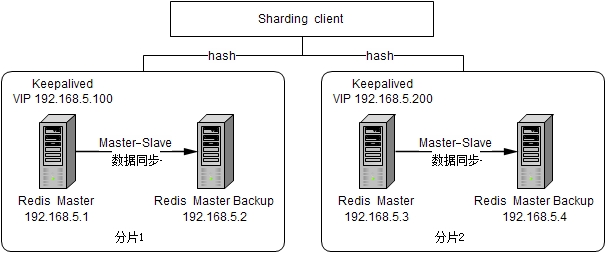
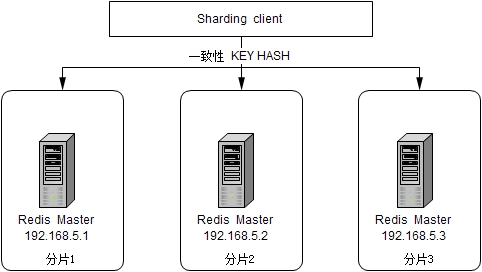
init

Changed region(s): [[0.0, 0.0553, 1.0, 1.0], [0.2178, 0.0, 0.778, 0.0277]]

diff --git a/service/disarch-service/src/main/java/com/disarch/service/cache/CacheService.java b/service/disarch-service/src/main/java/com/disarch/service/cache/CacheService.java
@@ -209,7 +209,7 @@ public class CacheService implements ICacheService {
                 try {
                     client.eval(REMOVE_BY_VALUE_SCRIPT, Collections.singletonList(key), Collections.singletonList(value));
                 } catch (Exception e) {
-                    LOGGER.error("setNotExistsWithExpire failed,db:{},msg:{}", client.getDB(), e.getMessage());
+                    LOGGER.error("removeByValueCluster failed,db:{},msg:{}", client.getDB(), e.getMessage());
                 }
             }
             return true;

diff --git a/service/disarch-service/src/main/java/com/disarch/service/uuid/UUIDService.java b/service/disarch-service/src/main/java/com/disarch/service/uuid/UUIDService.java
@@ -1,8 +1,14 @@
 package com.disarch.service.uuid;
 
 import com.disarch.entity.UUIDPeriodType;
+import com.disarch.service.cache.ICacheService;
+
+import javax.annotation.Resource;
 
 public class UUIDService implements IUUIDService {
+    @Resource
+    private ICacheService cacheService;
+
     @Override
     public String getUUIDOfString(String name, UUIDPeriodType uUIDPeriodType) {
         return null;

diff --git a/README.md b/README.md
@@ -7,7 +7,13 @@
 
 ## Redis集群
 ![sharding cluster](doc/redis_sharding_cluster.jpg)  
-通过客户端分片方式实现负载均衡，同时通过VIP+Master-Slave Sync方式实现服务端高可用。
+负载均衡统一通过客户端分片机制的ShardedJedisPool实现。  
+高可用则针对不同的场景采用不同的方式实现：  
+* 针对分布式锁、分布式ID等业务对缓存数据一致性要求很高的场景，无法通过主从模式保证强一致性，所以目前通过多写的方式来实现，虽然一定程度上降低了性能，但保证了强一致性要求下的高可用。
+* 针对普通读缓存业务对缓存数据一致性要求不高的场景，可以不用保证高可用，通过单写，获取失败重新加载缓存的方式实现即可。
+* ShardedJedisPool 无法处理结点宕机问题，需要在结点异常时通过 zookeeper 获取最新的可访问结点列表重新初始化 ShardedJedisPool。
+    * https://gitee.com/zhanggaofeng/redis-proxy
+    * https://github.com/smallvq123/redis-ha-proxy
 
 ## RabbitMQ集群
 
@@ -24,7 +30,12 @@
 分布式环境下的Session采用独立的Redis集群进行管理。
 
 ### 分布式ID
-设计单独的分布式ID获取服务，该服务通过Redis集群的incr获取自增id保证原子操作（为防止宕机数据丢失造成id重复，可尝试将时间数相加从而避免重复）。
+设计单独的分布式ID获取服务，该服务通过Redis集群的incr获取自增id保证原子操作。
+* redis
 
 ### 分布式锁
-设计单独的分布式锁服务，该服务通过Redis集群的setnx实现分布式并发锁操作。
+分布式环境下的锁服务通过Redis集群环境下的setnx方式实现分布式并发同步控制。需要注意如下几点：
+* 为了避免宕机情况引起的锁定失败，在集群中至少一半以上的结点上设置锁成功才算最终锁定成功
+* 为了避免因为在集群各结点设置锁顺序不一致而导致在锁失效时间内死锁的情况出现，设置锁集群结点的顺序必须一致
+* 为了避免因为主从同步不一致情况而引起的锁定失败，集群不再通过主备模式保证高可用，客户端+多个Redis结点方式已经可以保证高可用
+* 实现上除了通过 jedis 客户端 + redis 服务 的方式，还可以通过 Nginx lua + redis 服务 的方式，后者可以将分布式锁的实现细节与客户端解耦，当然本地也可以通过单独服务或SDK的方式解耦分布式锁的具体实现细节
